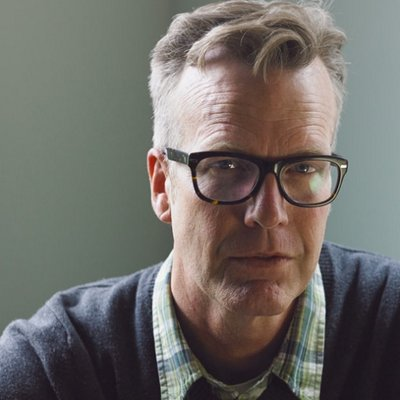
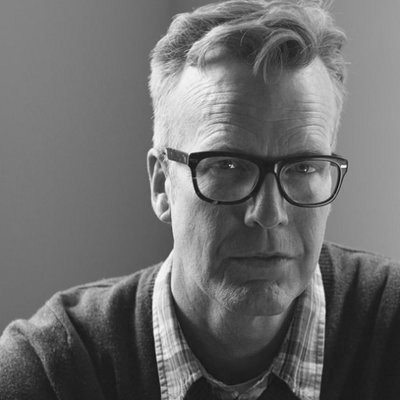
adding mat heinl

diff --git a/_build/index.html b/_build/index.html
@@ -68,12 +68,12 @@
         </div>
         <div class="section--speaker">
           <div class="section--speaker__img">
-            <img src="img/speakers/1/jody-hudson-powell.jpg">
+            <img src="img/speakers/1/mat-heinl.jpeg">
           </div>
           <div class="section--speaker__bio">
-            <span class="u-text-heavy">Jody Hudson-Powell</span>&thinsp;&mdash;&thinsp;<a href="https://twitter.com/LJ_HUDSONPOWELL" target="_blank">@lj_hudsonpowell</a><br>
-            Partner, Pentagram<br><br>
-            Jody is a partner, along with his brother Luke, at Pentagram. The pair joined the firm last year from their own studio, Hudson-Powell, where they worked with clients such as Coca Cola, Uniqlo and Google. Jody’s success is characterised by his own distinct style and wild, experimental creativity across tech, film and graphic design.
+            <span class="u-text-heavy">Mat Heinl</span>&thinsp;&mdash;&thinsp;<a href="https://twitter.com/H3INL" target="_blank">@H3INL</a><br>
+            CEO, Moving Brands<br><br>
+            Mat Heinl is the CEO of global creative company, Moving Brands. He joined 12 years ago, moving through the ranks with iconic work for the likes of Norton & Sons, Swisscom, HP, and the BBC. He'll be sharing his experience, and talking about the realities of bringing big, complex things into the world.
           </div>
         </div>
       </div>
